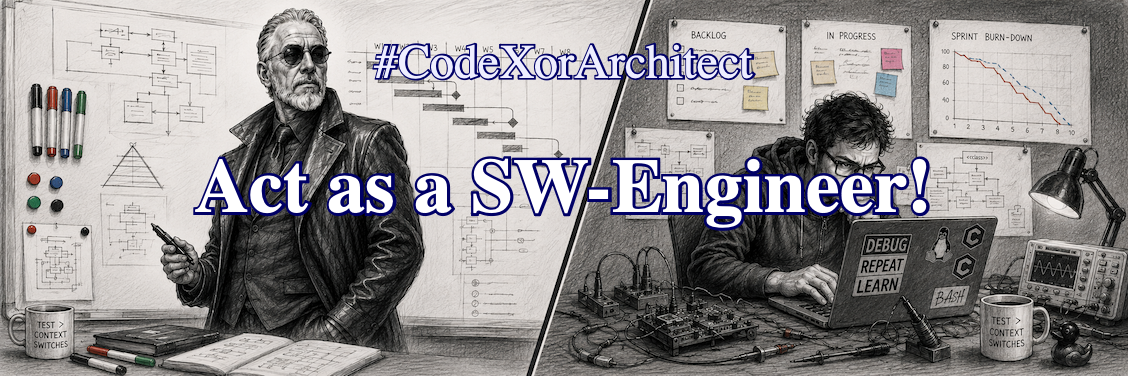
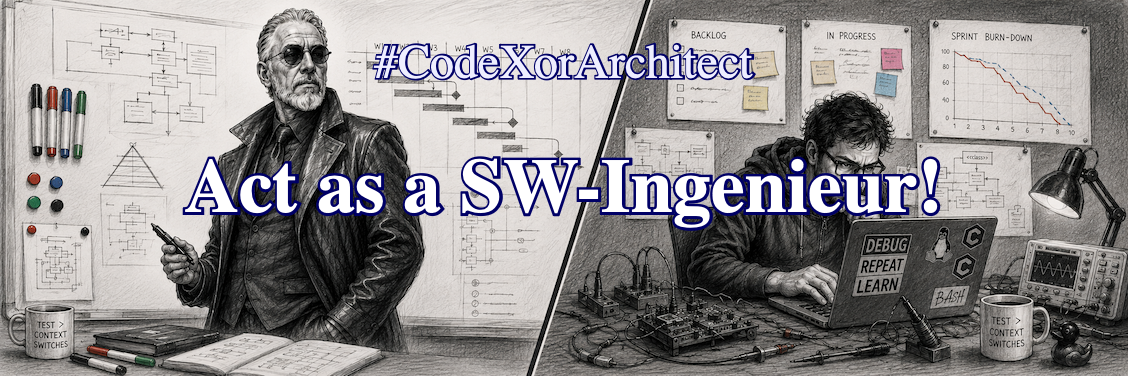
CodeXorArchitect:SW-Ingenieur: fixed typos (including Engineer/Ingenieur; oeps)

Changed region(s): [[0.1551, 0.4096, 0.8378, 0.6144]]

diff --git a/SystemEngineering/blogs/CodeXorArchitect/DRAFTS/SW-Ingenieur.rst b/SystemEngineering/blogs/CodeXorArchitect/DRAFTS/SW-Ingenieur.rst
@@ -3,10 +3,10 @@
 .. image:: images/SW-ingenieur.png
    :width: 100%
 
-Act as a SW-Engineer!
-=====================
+Act as a SW-Ingenieur!
+======================
 
-.. post:: 2026/Nov/16
+.. post:: 2026/Nov/18
    :tags: CodeXorArchitect
    :category: LinkedIn-Post
 
@@ -14,7 +14,7 @@ Act as a SW-Engineer!
    :LinkedIn: 		ToDo
 
    Dutch law protects the title *“ingenieur”*. Unlike the English term *engineer*, you are only allowed to use it after
-   completing a government-accredited, formal technical education.  This implies that a **SW-ingenieur** is
+   completing a government-accredited, formal technical education.  This implies that a **SW-Ingenieur** is
    university-educated and trained to solve technical challenges ---including designing the architecture.
 
    Speaking about *embedded software architecture*: The terms ‘architect’ and ‘architecture’ are even more confusing!
@@ -28,30 +28,30 @@ are trained in the Art Academy department.
 Luckily, it is allowed to use the term architect with a prefix, like “software-architect”. However, that has no formal
 guarantee whatsoever.
 
-Still, it give us some hints. A ‘SW-ingenieur’ is well-trained, and should be able deliver more then just code. That is
-why many Dutch, HighTech companies ask for *software ingenieurs* (‘ir/ing’ or ‘MSc/BSc’), not just Engineers. It is not
+Still, it gives us some hints. A ‘SW-ingenieur’ is well-trained and should be able to deliver more than just code. That is
+why many Dutch HighTech companies ask for *software ingenieurs* (‘ir/ing’ or ‘MSc/BSc’), not just Engineers. It is not
 about the software --- tools can generate that nowadays. An (SW-)ingenieur can solve challenges with technical solutions.
 |BR|
-That is one reason why CodeAI isn't a big threat for SW-ingenieurs. A genuine ingenieur can use technology, but solves
+That is one reason why CodeAI isn't a big threat for SW-Ingenieurs. A genuine ingenieur can use technology, but solves
 real problems.
 
-Typically, ingenieur’s engineering is about finding the best route; balancing cost & performance, resulting in a
-reliable, maintainable appliance. A SW-ingenieur should never rush to a silver bullet!
+Typically, an ingenieur’s engineering is about finding the best route; balancing cost & performance, resulting in a
+reliable, maintainable appliance. A SW-Ingenieur should never rush to a silver bullet!
 |BR|
-HighTech, Embedded, “Sovereign” Software isn't about the code. It’s about what it accomplishes: a full-swing system.
+HighTech, Embedded “Sovereign” Software isn't about the code. It’s about what it accomplishes: a full-swing system.
 
-But, when an SW-ingenieur is trained to design such a system, what should an (embedded system/software) architect do
+But when an SW-Ingenieur is trained to design such a system, what should an (embedded system/software) architect do
 extra?
 |BR|
 It’s about the “extra”. Any genuine architect should also be an ‘SW-Ingenieur’. But that doesn't imply coding ---soon we
 have tools for that. But it does imply the (system/software) architect should act as an (SW) ingenieur: Solve real
 disputed points, typically with a technical approach.
 
-I hope this helps. Still, we have one extra complication; when a SW-ingenieur can “design the architecture” ... What is
-the difference between ‘design’ and ‘architecture’? That however is stuff for an whole other :ref:`story
+I hope this helps. Still, we have one extra complication: when a SW-Ingenieur can “design the architecture” ... What is
+the difference between ‘design’ and ‘architecture’? That, however, is stuff for a whole other :ref:`story
 <layers-inversion>`!
 
-For now, just act as an Ingenieur! And please, help me to plug the term ‘SW-Ingenieur’; that solves an big problem! For
+For now, just act as an Ingenieur! And please, help me to plug the term ‘SW-Ingenieur’; that solves a big problem! For
 all of us.
 
 

diff --git a/SystemEngineering/blogs/CodeXorArchitect/DRAFTS/LayersInversion.rst b/SystemEngineering/blogs/CodeXorArchitect/DRAFTS/LayersInversion.rst
@@ -4,4 +4,3 @@ Layers Inversion
 ================
 
 
-But that is an whole other :ref:`story <layers-inversion>` ...
